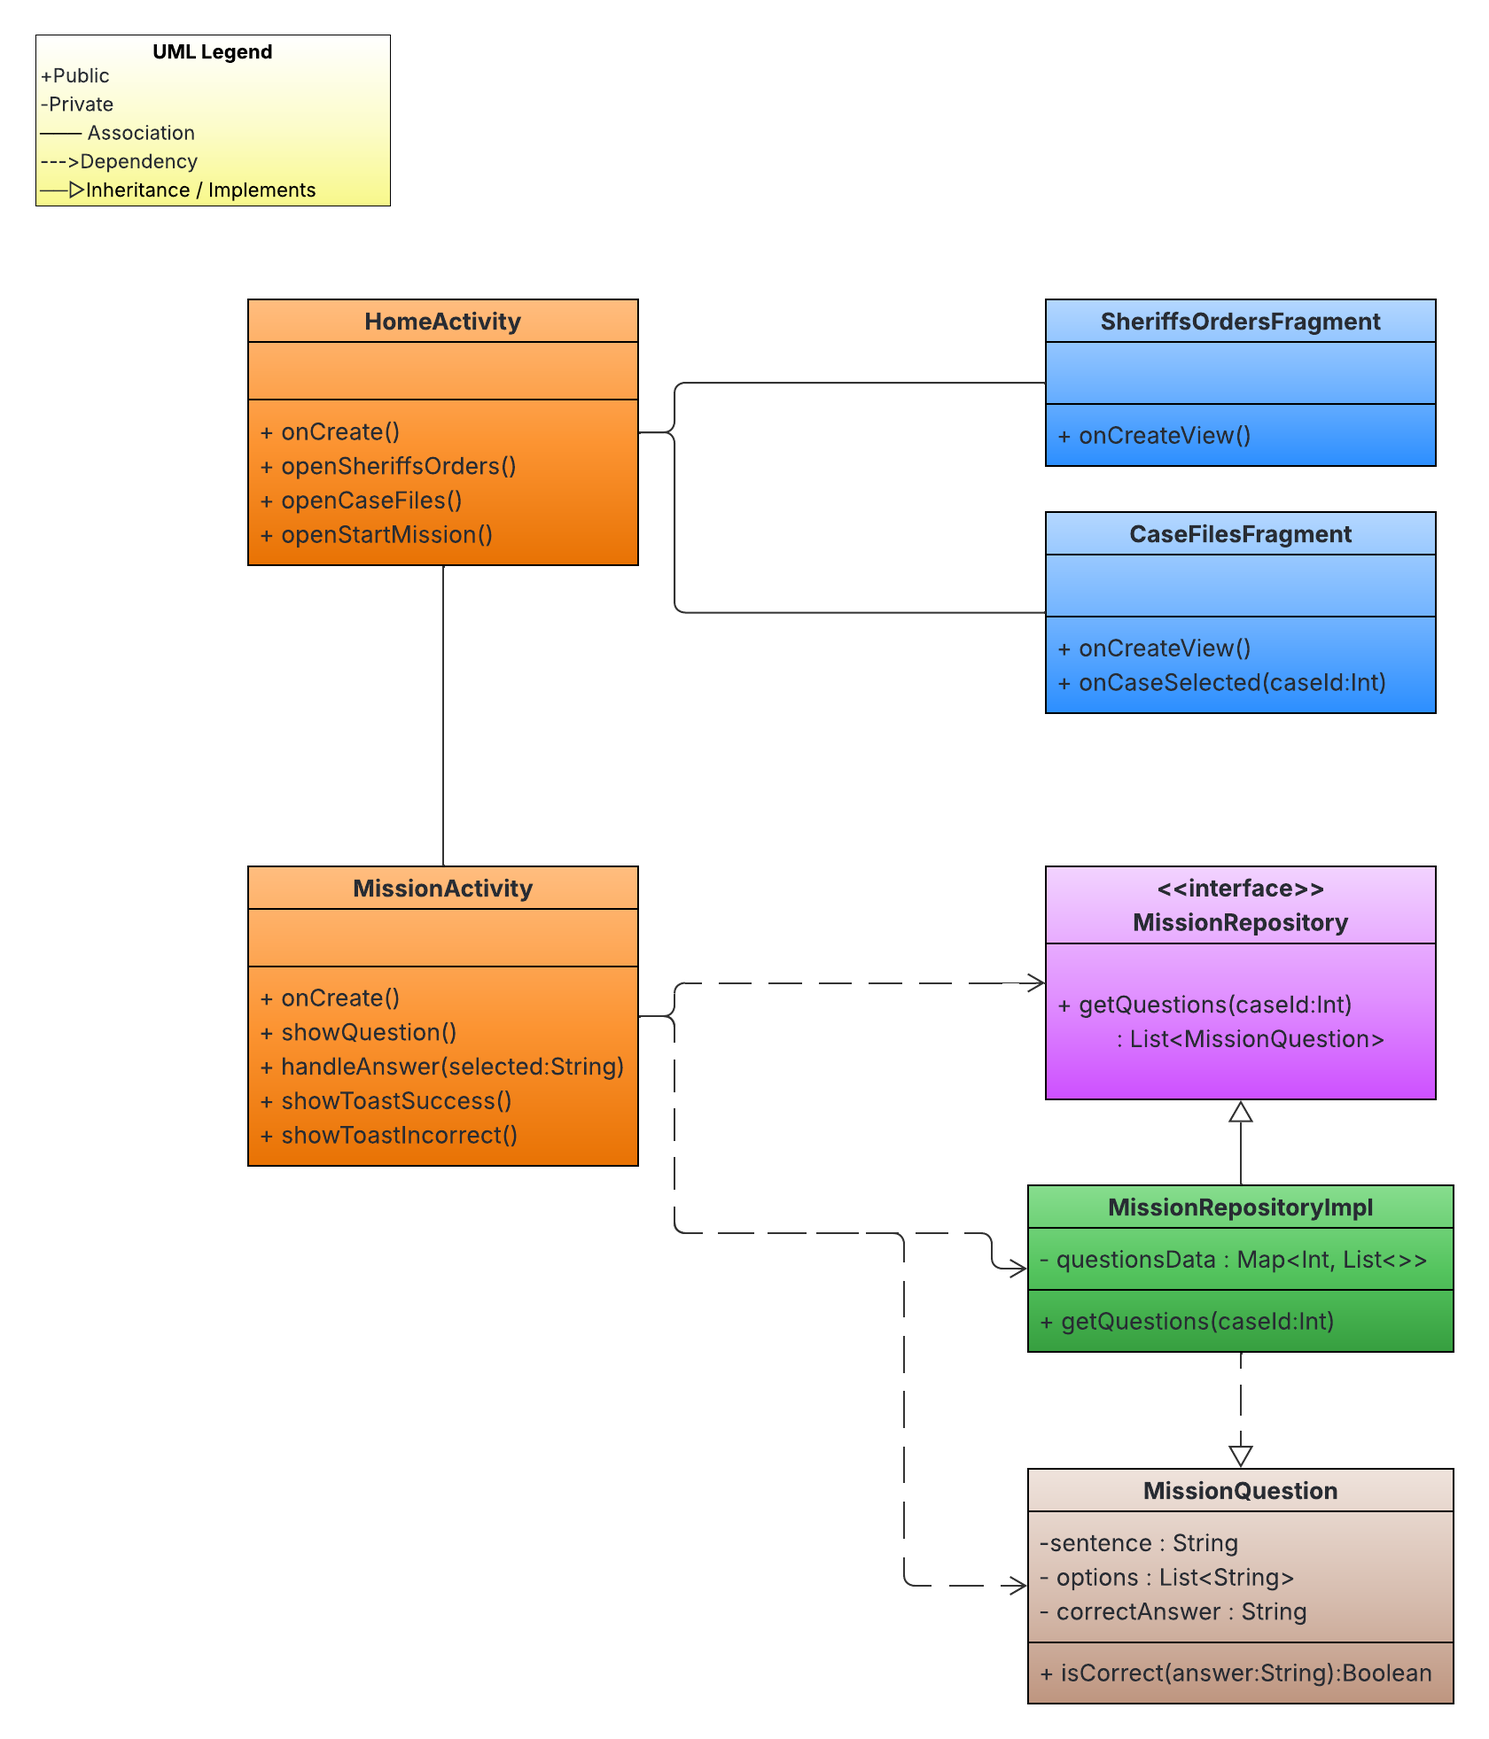
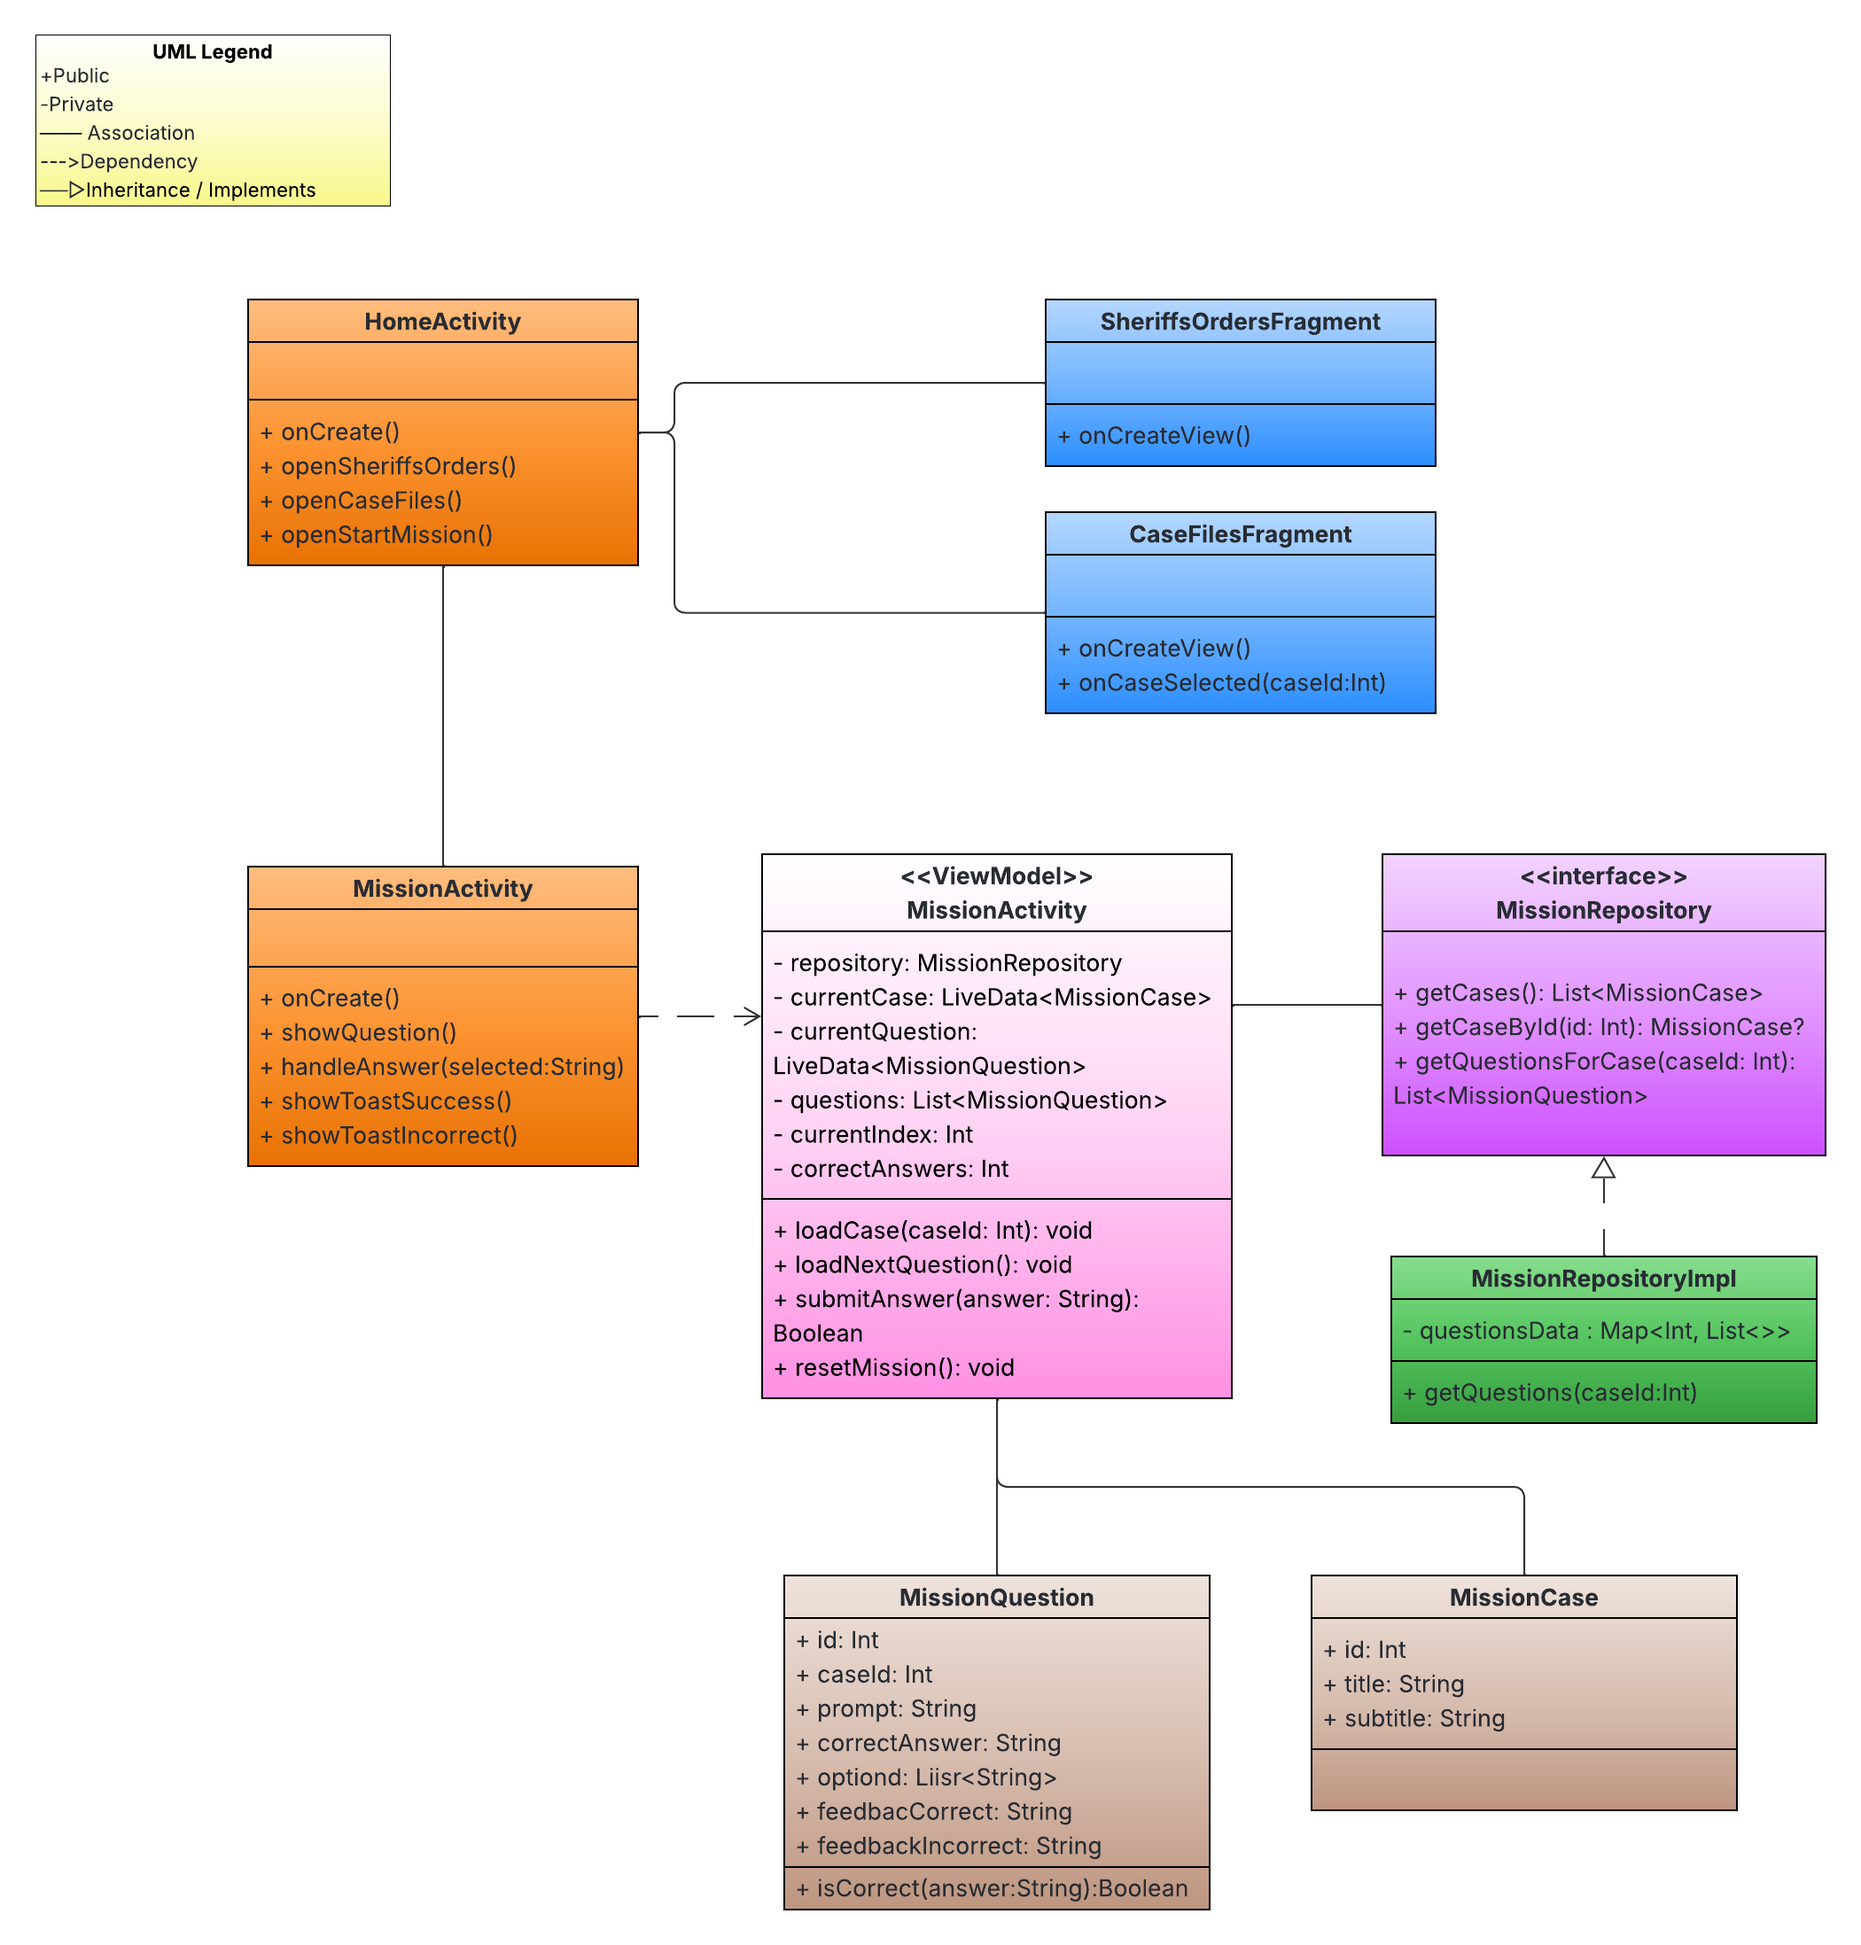
Add MissionViewModel and MissionViewModelFactory
- Implemented MissionViewModel with LiveData for case and questions
- Added logic for loading cases and questions from MissionRepository
- Created MissionViewModelFactory to inject MissionRepository into ViewModel
- Prepared structure for replacing MissionActivity logic with ViewModel

diff --git a/app/src/main/java/com/example/sheriffswordhunt/ui/mission/MissionActivity.kt b/app/src/main/java/com/example/sheriffswordhunt/ui/mission/MissionActivity.kt
@@ -1,6 +1,7 @@
 package com.example.sheriffswordhunt.ui.mission
 
 import android.os.Bundle
+import androidx.activity.viewModels
 import androidx.appcompat.app.AppCompatActivity
 import com.example.sheriffswordhunt.R
 import com.example.sheriffswordhunt.data.model.MissionCase
@@ -8,41 +9,38 @@ import com.example.sheriffswordhunt.data.model.MissionQuestion
 import com.example.sheriffswordhunt.data.repository.MissionRepository
 import com.example.sheriffswordhunt.data.repository.MissionRepositoryImpl
 import com.example.sheriffswordhunt.databinding.ActivityMissionBinding
+import kotlin.collections.get
 
 class MissionActivity : AppCompatActivity() {
-    private lateinit var binding: ActivityMissionBinding
+
     private val repository: MissionRepository = MissionRepositoryImpl()
     private val currentCaseId: Int = 1
-    private lateinit var questions: List<MissionQuestion>
-    private var currentIndex: Int = 0
-    private lateinit var currentCase: MissionCase
+    private lateinit var binding: ActivityMissionBinding
 
-
+    private val viewModel: MissionViewModel by viewModels {
+        MissionViewModelFactory(repository)
+    }
+    
     override fun onCreate(savedInstanceState: Bundle?) {
         super.onCreate(savedInstanceState)
         binding = ActivityMissionBinding.inflate(layoutInflater)
         setContentView(binding.root)
 
         binding.heroSection.imgHero.setImageResource(R.drawable.hero_mission)
-         currentCase = repository.getCaseById(currentCaseId)
-             ?: error("Case with id $currentCaseId not found")
 
-        binding.tvMissionTitle.text = currentCase.title
-        binding.tvMissionSubtitle.text = currentCase.subtitle
-
-
-        questions = repository.getQuestionsForCase(currentCaseId)
-
-        if (questions.isNotEmpty()) {
-            showQuestion()
+        viewModel.currentCase.observe(this) { missionCase ->
+            binding.tvMissionTitle.text = missionCase.title
+            binding.tvMissionSubtitle.text = missionCase.subtitle
         }
-    }
-    private fun showQuestion() {
-        val question = questions[currentIndex]
-        binding.tvQuestion.text = question.prompt
 
-        binding.btnOption1.text = question.options[0]
-        binding.btnOption2.text = question.options[1]
-        binding.btnOption3.text = question.options[2]
+        viewModel.currentQuestion.observe(this) { question ->
+            binding.tvQuestion.text = question.prompt
+            binding.btnOption1.text = question.options[0]
+            binding.btnOption2.text = question.options[1]
+            binding.btnOption3.text = question.options[2]
+        }
+
+        viewModel.loadCase(currentCaseId)
     }
+
 }

diff --git a/app/src/main/java/com/example/sheriffswordhunt/ui/mission/MissionViewModel.kt b/app/src/main/java/com/example/sheriffswordhunt/ui/mission/MissionViewModel.kt
@@ -1,0 +1,43 @@
+package com.example.sheriffswordhunt.ui.mission
+
+import androidx.lifecycle.LiveData
+import androidx.lifecycle.MutableLiveData
+import androidx.lifecycle.ViewModel
+import com.example.sheriffswordhunt.data.model.MissionCase
+import com.example.sheriffswordhunt.data.model.MissionQuestion
+import com.example.sheriffswordhunt.data.repository.MissionRepository
+import java.sql.RowId
+
+class MissionViewModel(
+    private val repository: MissionRepository
+) : ViewModel() {
+    private val _currentCase = MutableLiveData<MissionCase>()
+    val currentCase: LiveData<MissionCase> = _currentCase
+
+    private val _currentQuestion = MutableLiveData<MissionQuestion>()
+    val currentQuestion: LiveData<MissionQuestion> = _currentQuestion
+
+    private var questions: List<MissionQuestion> = emptyList()
+    private var currentIndex: Int = 0
+
+    fun loadCase(caseId: Int) {
+        val case = repository.getCaseById(caseId)
+            ?: error("Case with id $caseId not found")
+
+        _currentCase.value = case
+
+        questions = repository.getQuestionsForCase(caseId)
+        currentIndex = 0
+
+        if (questions.isNotEmpty()) {
+            _currentQuestion.value = questions[currentIndex]
+        }
+    }
+
+    fun showNextQuestion() {
+        if (currentIndex < questions.lastIndex) {
+            currentIndex++
+            _currentQuestion.value = questions[currentIndex]
+        }
+    }
+}

diff --git a/app/src/main/java/com/example/sheriffswordhunt/ui/mission/MissionViewModelFactory.kt b/app/src/main/java/com/example/sheriffswordhunt/ui/mission/MissionViewModelFactory.kt
@@ -1,0 +1,18 @@
+package com.example.sheriffswordhunt.ui.mission
+
+import androidx.lifecycle.ViewModel
+import androidx.lifecycle.ViewModelProvider
+import com.example.sheriffswordhunt.data.repository.MissionRepository
+
+class MissionViewModelFactory(
+    private val repository: MissionRepository
+) : ViewModelProvider.Factory {
+
+    @Suppress("UNCHECKED_CAST")
+    override fun <T : ViewModel> create(modelClass: Class<T>): T {
+        if (modelClass.isAssignableFrom(MissionViewModel::class.java)) {
+            return MissionViewModel(repository) as T
+        }
+        throw IllegalArgumentException("Unknown ViewModel class: ${modelClass.name}")
+    }
+}
